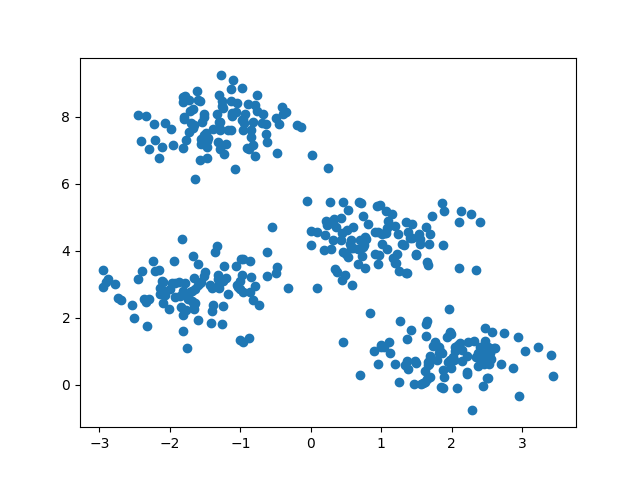
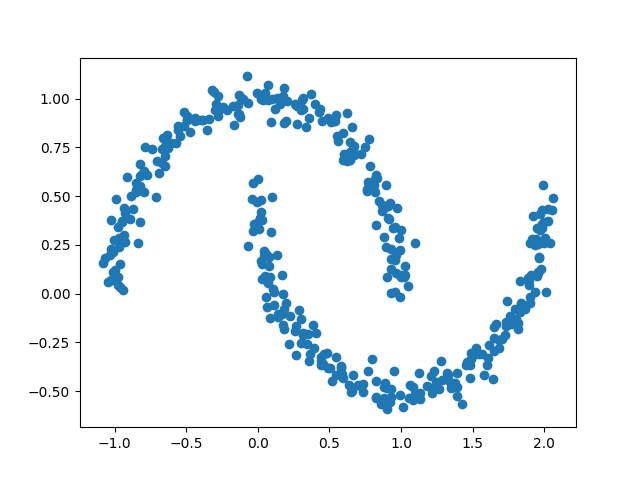
try moon data

diff --git a/run_kmc_moon.py b/run_kmc_moon.py
@@ -1,18 +1,18 @@
-from sklearn.datasets.samples_generator import make_blobs
+from sklearn.datasets.samples_generator import make_moons
 import numpy as np
 import matplotlib.pyplot as plt
 
 from sklearn.cluster import KMeans
 
-X,Y = make_blobs(n_samples=400, centers=4, 
-	cluster_std=0.60, random_state=0)
+X,Y = make_moons(n_samples=400, noise =0.05, random_state=0)
 
 # print(X)
 
 plt.scatter(X[:,0], X[:,1])
 plt.savefig('scatterplot.png')
 
-kmeans = KMeans(n_clusters=7)
+
+kmeans = KMeans(n_clusters=2)
 kmeans.fit(X)
 kmeans_results = kmeans.predict(X)
 
